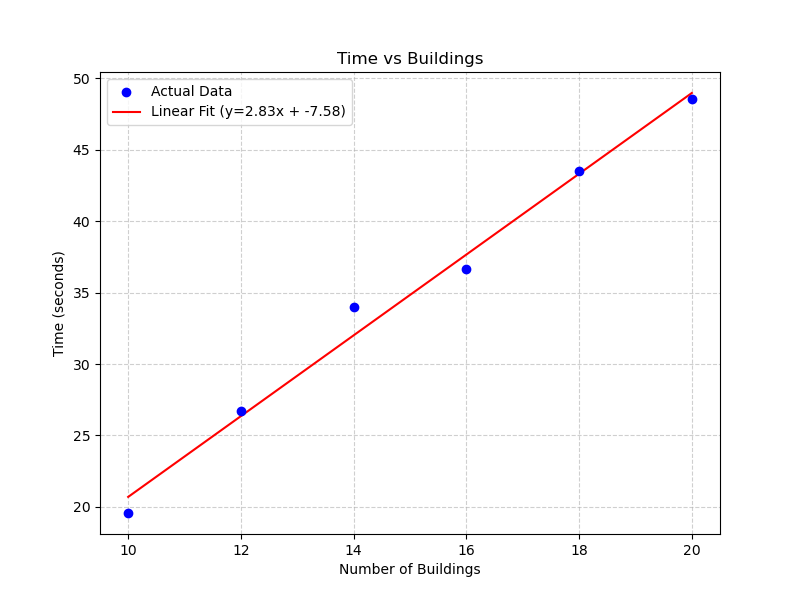
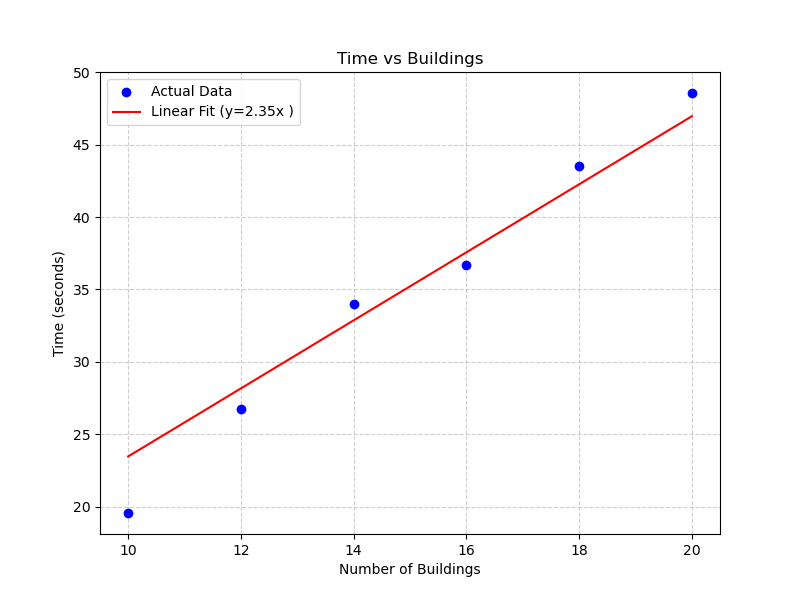
task 9

diff --git a/Code_handin/Task9.py b/Code_handin/Task9.py
@@ -1,0 +1,83 @@
+from os.path import join
+import sys
+import cupy as cp
+from time import time
+
+
+
+def load_data(load_dir, bid):
+    SIZE = 512
+    u = cp.zeros((SIZE + 2, SIZE + 2))
+    u[1:-1, 1:-1] = cp.load(join(load_dir, f"{bid}_domain.npy"))
+    interior_mask = cp.load(join(load_dir, f"{bid}_interior.npy"))
+    return u, interior_mask
+
+
+def jacobi(u, interior_mask, max_iter, atol=1e-6):
+    u = cp.copy(u)
+
+    for i in range(max_iter):
+        # Compute average of left, right, up and down neighbors, see eq. (1)
+        u_new = 0.25 * (u[1:-1, :-2] + u[1:-1, 2:] + u[:-2, 1:-1] + u[2:, 1:-1])
+        u_new_interior = u_new[interior_mask]
+        delta = cp.abs(u[1:-1, 1:-1][interior_mask] - u_new_interior).max()
+        u[1:-1, 1:-1][interior_mask] = u_new_interior
+
+        if delta < atol:
+            break
+    return u
+
+
+def summary_stats(u, interior_mask):
+    u_interior = u[1:-1, 1:-1][interior_mask]
+    mean_temp = u_interior.mean()
+    std_temp = u_interior.std()
+    pct_above_18 = cp.sum(u_interior > 18) / u_interior.size * 100
+    pct_below_15 = cp.sum(u_interior < 15) / u_interior.size * 100
+    return {
+        'mean_temp': mean_temp,
+        'std_temp': std_temp,
+        'pct_above_18': pct_above_18,
+        'pct_below_15': pct_below_15,
+    }
+
+
+if __name__ == '__main__':
+    # Load data
+    LOAD_DIR = '/dtu/projects/02613_2025/data/modified_swiss_dwellings/'
+    with open(join(LOAD_DIR, 'building_ids.txt'), 'r') as f:
+        building_ids = f.read().splitlines()
+
+    if len(sys.argv) < 2:
+        N = 1
+    else:
+        N = int(sys.argv[1])
+    building_ids = building_ids[:N]
+
+    # Load floor plans
+    all_u0 = cp.empty((N, 514, 514))
+    all_interior_mask = cp.empty((N, 512, 512), dtype='bool')
+    for i, bid in enumerate(building_ids):
+        u0, interior_mask = load_data(LOAD_DIR, bid)
+        all_u0[i] = u0
+        all_interior_mask[i] = interior_mask
+
+    # Run jacobi iterations for each floor plan
+    MAX_ITER = 20_000
+    ABS_TOL = 1e-4
+
+    t_start=time()
+    all_u = cp.empty_like(all_u0)
+    for i, (u0, interior_mask) in enumerate(zip(all_u0, all_interior_mask)):
+        u = jacobi(u0, interior_mask, MAX_ITER, ABS_TOL)
+        all_u[i] = u
+    timing=time()-t_start
+    print("timing:",timing)
+
+    # Print summary statistics in CSV format
+    stat_keys = ['mean_temp', 'std_temp', 'pct_above_18', 'pct_below_15']
+    print('building_id, ' + ', '.join(stat_keys))  # CSV header
+    for bid, u, interior_mask in zip(building_ids, all_u, all_interior_mask):
+        stats = summary_stats(u, interior_mask)
+        print(f"{bid},", ", ".join(str(stats[k]) for k in stat_keys))
+

diff --git a/src/time_plots_task9.py b/src/time_plots_task9.py
@@ -10,13 +10,19 @@ buildings = np.array([10,12,14,16,18,20])
 time_real = np.array([19.573, 26.735, 33.981,36.682,43.516,48.558]) #dele
 
 #Degree 1 = linear fit
-slope, intercept = np.polyfit(buildings, time_real, 1)
-trendline = slope * buildings + intercept
+#slope, intercept = np.polyfit(buildings, time_real, 1)
+#trendline = slope * buildings + intercept
+
+# Linear fit with intercept = 0
+slope = np.dot(buildings, time_real) / np.dot(buildings, buildings)
+
+trendline = slope * buildings
+
 
 #Plot
 plt.figure(figsize=(8, 6))
 plt.scatter(buildings, time_real, color='blue', label='Actual Data', zorder=5)
-plt.plot(buildings, trendline, color='red', label=f'Linear Fit (y={slope:.2f}x + {intercept:.2f})')
+plt.plot(buildings, trendline, color='red', label=f'Linear Fit (y={slope:.2f}x )')
 plt.xlabel('Number of Buildings')
 plt.ylabel('Time (seconds)')
 plt.title('Time vs Buildings')
@@ -30,4 +36,4 @@ save_path = os.path.join('..', 'figures', figure_name)
 plt.savefig(save_path)
 
 print(f"Plot saved successfully as '{figure_name}'")
-print(f"Regression Equation: Time = {slope:.2f} * Buildings + ({intercept:.2f})")
+print(f"Regression Equation: Time = {slope:.2f} * Buildings )")